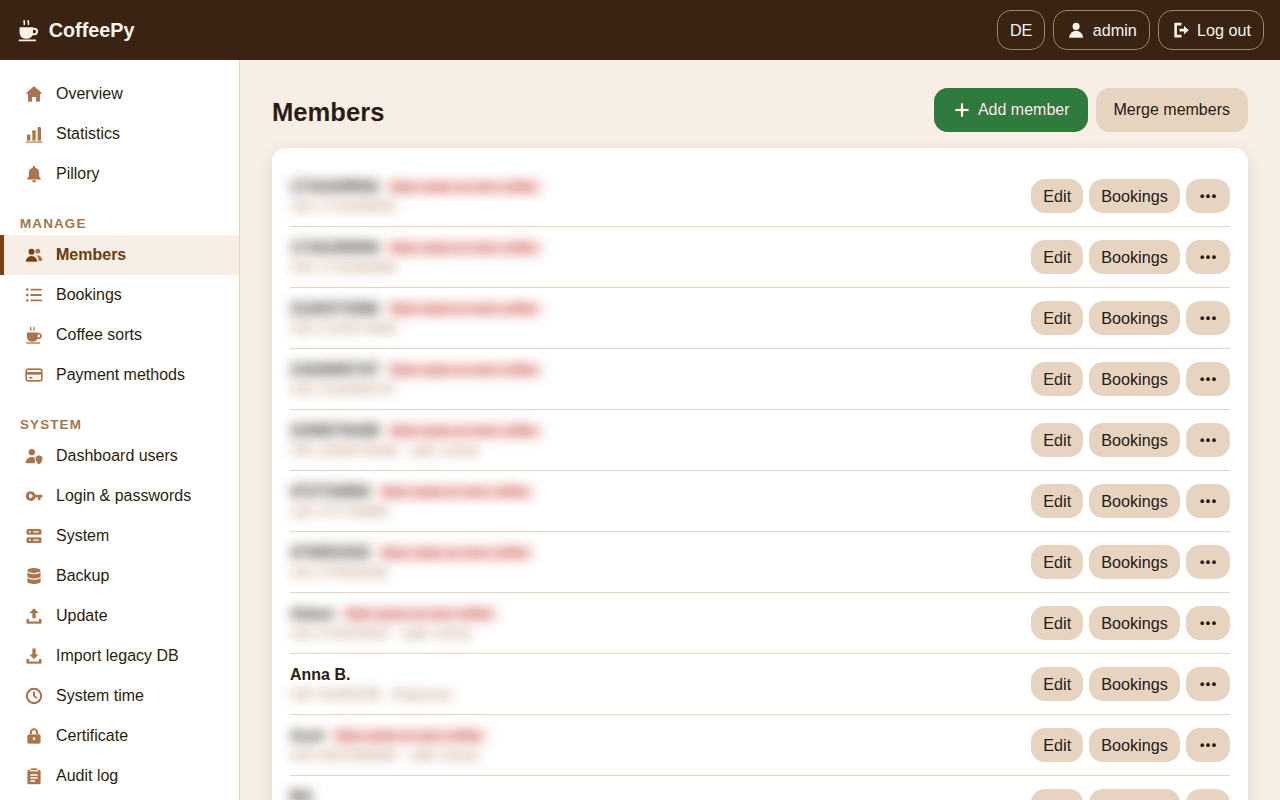
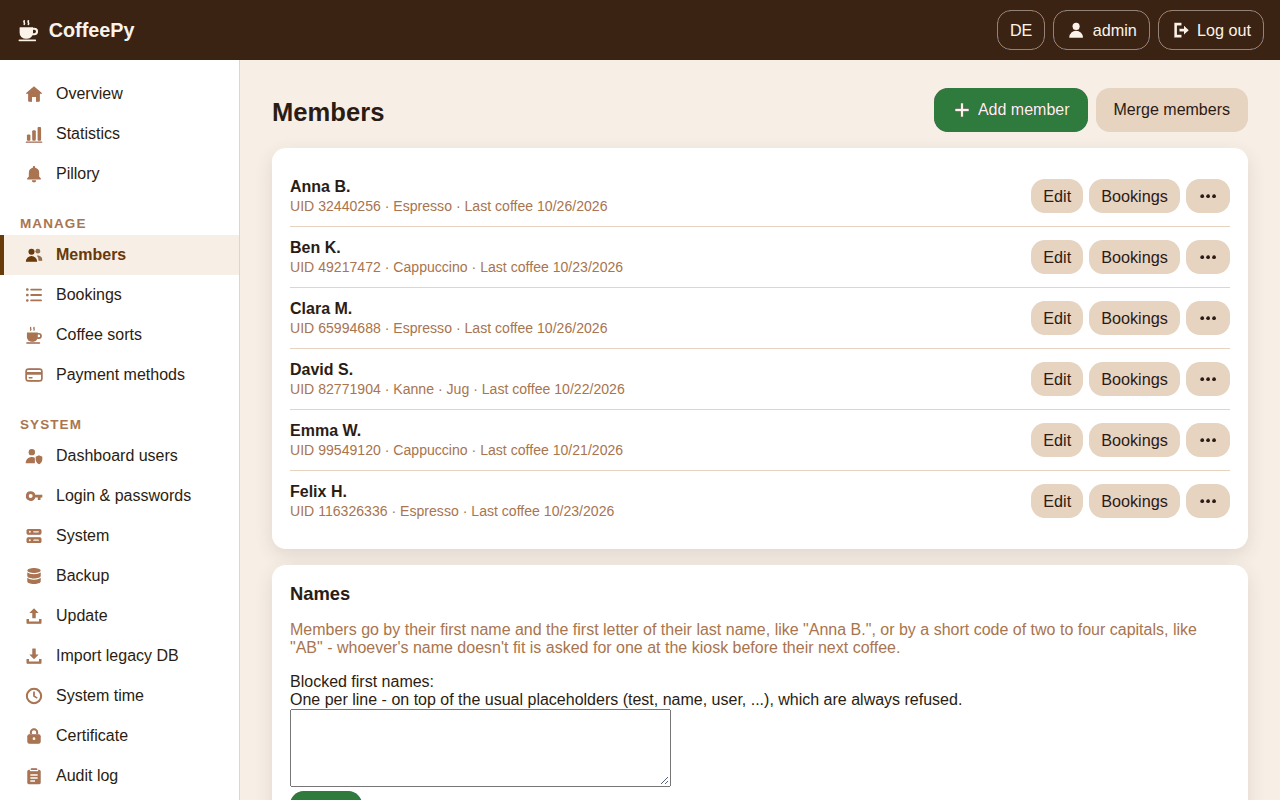
feat: Add last coffee date to member list and enhance blur functionality for privacy

Changed region(s): [[0.1875, 0.375, 1.0, 1.0], [0.2188, 0.2188, 0.5, 0.3438], [0.7812, 0.9062, 0.9688, 1.0]]

diff --git a/dashboard/templates/dashboard/members.html b/dashboard/templates/dashboard/members.html
@@ -31,6 +31,7 @@
                     {% translate "UID" %} {{ member.uid|unlocalize }}{% for card in member.alt_cards.all %}{% if forloop.first %} &middot; {% translate "Alt cards" %}{% endif %} {{ card.uid|unlocalize }}{% if not forloop.last %},{% endif %}{% endfor %}
                     {% if member.favourite_coffee %} &middot; {{ member.favourite_coffee.name }}{% endif %}
                     {% if member.device_count %} &middot; {% blocktranslate with count=member.device_count %}{{ count }} phone(s){% endblocktranslate %}{% endif %}
+                    &middot; {% if member.last_order %}<span title="{{ member.last_order|date:'SHORT_DATETIME_FORMAT' }}">{% blocktranslate trimmed with date=member.last_order|date:'SHORT_DATE_FORMAT' %}Last coffee {{ date }}{% endblocktranslate %}</span>{% else %}{% translate "No coffee yet" %}{% endif %}
                 </span>
             </div>
             <div class="list-row-actions">

diff --git a/dashboard/tests/test_members.py b/dashboard/tests/test_members.py
@@ -7,7 +7,7 @@ from django.test import Client, TestCase
 from django.urls import reverse
 from django.utils import timezone
 
-from coffee.models import AuditLogEntry, CoffeeSort, Member, MemberLinkToken
+from coffee.models import AuditLogEntry, CoffeeSort, Member, MemberDevice, MemberLinkToken, Order
 
 
 class MemberCrudTestCase(TestCase):
@@ -100,3 +100,25 @@ class MemberNameRulesTestCase(TestCase):
         self.client.post(reverse("dashboard:member_name_rules"), {"blocked_names": "Chef\nBoss"})
         self.assertContains(self.client.get(reverse("dashboard:members")), "New name at next coffee", count=1)
         self.assertTrue(AuditLogEntry.objects.filter(action="name_policy.update", details="boss, chef").exists())
+
+
+class LastCoffeeTestCase(TestCase):
+    """The member list says when each member last had a coffee - how a nameless card that
+    left the company is told from one still in use."""
+
+    def test_last_coffee_per_member(self):
+        User.objects.create_superuser(username="boss", password="pw")
+        self.client.login(username="boss", password="pw")
+        sort = CoffeeSort.objects.create(name="Espresso", price=Decimal("0.30"), machine_strokes=1)
+        anna = Member.objects.create(uid=1, nickname="Anna B.")
+        Member.objects.create(uid=2, nickname="Ben K.")
+        for days in (40, 3):
+            Order.objects.create(member=anna, coffee_sort=sort, value=Decimal("0.30"), machine_strokes=1,
+                                 created_at=timezone.now() - timedelta(days=days))
+        MemberDevice.objects.create(member=anna, session_key="a", label="a")
+        MemberDevice.objects.create(member=anna, session_key="b", label="b")
+        response = self.client.get(reverse("dashboard:members"))
+        newest = timezone.localtime(timezone.now() - timedelta(days=3)).strftime("%m/%d/%Y")
+        self.assertContains(response, f"Last coffee {newest}")
+        self.assertContains(response, "No coffee yet", count=1)
+        self.assertContains(response, "2 phone(s)")  # not multiplied by the orders it is joined with

diff --git a/.claude/skills/user-manual/scripts/capture_web.py b/.claude/skills/user-manual/scripts/capture_web.py
@@ -221,7 +221,7 @@ def kiosk_new_card(b):
 def kiosk_ranking(b):
     b.click("a.nav-btn[data-mode=ranking]")
     b.wait_state("ranking")
-    blur = BLUR_JS % json.dumps(private_names())  # real members can make the top 3, or the pillory
+    blur = blur_js()  # real members can make the top 3, or the pillory
     b.js(blur)
     b.shot("kiosk-ranking-alltime")
     for view in ("month", "pillory"):
@@ -265,7 +265,9 @@ FULL_PAGE = ("dashboard-update", "dashboard-backup")
 BLUR_JS = """
 (() => {
   const names = %s.filter(n => n && n.length > 1);
-  const hit = text => /\\d{6,}/.test(text) || names.some(n => text.includes(n));
+  // Card numbers are blurred - all but the demo cards' (demo_data.py), which are made up.
+  const demo = %s;
+  const hit = text => (text.match(/\\d{6,}/g) || []).some(d => !demo.includes(d)) || names.some(n => text.includes(n));
   const blur = el => { el.style.filter = "blur(6px)"; };
   const walker = document.createTreeWalker(document.body, NodeFilter.SHOW_TEXT);
   const found = new Set();
@@ -279,6 +281,16 @@ BLUR_JS = """
   return found.size;
 })()
 """
+
+
+def demo_uids():
+    """The demo cards' uids as the pages print them (demo_data.uid(): little-endian C0FFEE01...)."""
+    hexes = [f"C0FFEE{i + 1:02X}" for i in range(6)] + ["C0FFEEFF"]
+    return [str(int.from_bytes(bytes.fromhex(h), "little")) for h in hexes]
+
+
+def blur_js():
+    return BLUR_JS % (json.dumps(private_names()), json.dumps(demo_uids()))
 
 
 def private_names():
@@ -303,7 +315,7 @@ def dashboard(b, password):
          f"document.querySelector('form').submit()")
     b.page.collect(0.5, until="Page.loadEventFired")
     anna = shell_django("from coffee.models import Member; print(Member.objects.get(nickname='Anna B.').uid)")
-    blur = BLUR_JS % json.dumps(private_names())
+    blur = blur_js()
     for path, name in DASHBOARD_PAGES + [(f"/dashboard/members/{anna}/edit/", "dashboard-member-form")]:
         if not wanted(name):
             continue

diff --git a/dashboard/views.py b/dashboard/views.py
@@ -11,7 +11,7 @@ from django.contrib.auth.decorators import login_required
 from django.contrib.sessions.models import Session
 from django.core.paginator import Paginator
 from django.db import connection, transaction
-from django.db.models import Count, Q
+from django.db.models import Count, Max, Q
 from django.http import Http404, HttpResponse, JsonResponse
 from django.shortcuts import get_object_or_404, redirect, render
 from django.urls import reverse
@@ -169,9 +169,12 @@ def paymentmethod_delete(request, pk):
 @login_required
 def member_list(request):
     # Annotated rather than member.devices.count in the template: that was two
-    # queries per member row.
+    # queries per member row. distinct: the join with orders would multiply the devices.
+    # last_order - when someone stopped coming is what tells a nameless card that left the
+    # company from one still in use.
     members = list(Member.objects.select_related("favourite_coffee").prefetch_related("alt_cards")
-                   .annotate(device_count=Count("devices")).order_by("nickname", "uid"))
+                   .annotate(device_count=Count("devices", distinct=True), last_order=Max("orders__created_at"))
+                   .order_by("nickname", "uid"))
     blocked = NamePolicy.current().blocked_list()
     for member in members:
         # Who the kiosk will ask for a proper name at their next coffee (coffee/names.py).

diff --git a/.claude/skills/user-manual/SKILL.md b/.claude/skills/user-manual/SKILL.md
@@ -97,7 +97,8 @@ databases onto it). Nothing personal may reach `docs/pictures/` - nicknames, mem
 ids. This is automatic, not something to ask about:
 
 - `capture_web.py` blurs it: before every dashboard shot and the kiosk's ranking shots it runs
-  `BLUR_JS`, which blurs every element holding a number of six or more digits or the nickname of
+  `BLUR_JS`, which blurs every element holding a number of six or more digits - except the demo
+  cards' uids (`demo_uids()`), so a member list still shows what it is about - or the nickname of
   a member that isn't one of `demo_data.py`'s (`private_names()`). **A new capture step that
   can show members** - a new dashboard page, a kiosk screen with names, the portal - **calls
   `b.js(blur)` before `b.shot(...)`** like the others; a new demo member goes into the exclusion

diff --git a/docs/MANUAL.de.md b/docs/MANUAL.de.md
@@ -481,7 +481,9 @@ Liste wie am Kiosk.
 
 ### Mitglieder
 
-Die Liste aller Mitglieder mit ihren Karten. Pro Mitglied:
+Die Liste aller Mitglieder mit ihren Karten und dem Tag ihres **letzten Kaffees** – daran
+erkennst du auch bei einer Karte ohne Namen, ob noch jemand sie benutzt oder ob ihr Besitzer
+längst gegangen ist (dann *Als ausgeschieden markieren*). Pro Mitglied:
 
 - **Bearbeiten**: Name, UID, Lieblingskaffee. Für den Namen gelten dieselben Regeln wie am Kiosk
   (siehe [Einstellungen](#einstellungen)).

diff --git a/docs/MANUAL.en.md b/docs/MANUAL.en.md
@@ -457,7 +457,9 @@ as on the kiosk.
 
 ### Members
 
-The list of all members with their cards. Per member:
+The list of all members with their cards and the day of their **last coffee** – which tells
+you, even for a card without a name, whether someone still uses it or its owner left long ago
+(then *Mark as departed*). Per member:
 
 - **Edit**: name, UID, favourite coffee. The name follows the same rules as at the kiosk
   (see [Settings](#settings)).
